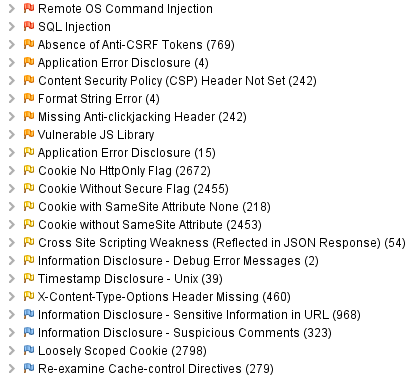
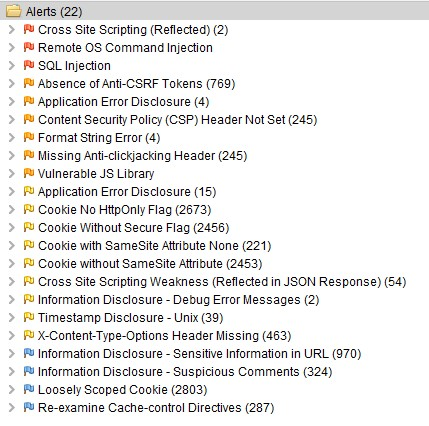
add other security items

Changed region(s): [[0.0, 0.0, 1.0, 0.9897]]

diff --git a/en/others/penetration-test-report.md b/en/others/penetration-test-report.md
@@ -1,6 +1,6 @@
 # ABP Commercial Penetration Test Report
 
-ABP v5.3.2 has been tested with OWASP ZAP tool. The following alerts has been reported by the tool. Many of these items are false-alert and some of them are correct alerts. In the next sections, the reason of false-alerts will be explained. For the correct alerts, there will be fixes. The issue links for the fixes will be shared in the last section.
+ABP Commercial MVC v5.3.2 application template has been tested against security vulnerabilities via [OWASP ZAP v2.11.1](https://www.zaproxy.org/)  tool. The following alerts has been reported by the tool. Many of these items are false-alert and a few of them are effects vulnerability. In the next sections, the reason of false-alerts will be explained. For the correct alerts are fixed or to created internal issues to be fixed later according to the risk level. The issue links for the fixes will be shared in the last section.
 
 
 ## Alerts
@@ -9,11 +9,220 @@ There are high, medium, low and informational alerts.
 
 ![image-20220630183012987](../images/pen-test-alert-list.png)
 
-### Remote OS Command Injection | High
+### Cross Site Scripting (Reflected)  [Risk: High] — Positive (Fixed)
 
-*[GET]* — https://localhost:44378/SettingManagement?AccountRecaptchaSettings.UseCaptchaOnLogin=false&AccountRecaptchaSettings.UseCaptchaOnRegistration=false&AccountSettings.EnableLocalLogin=false&AccountSettings.IsSelfRegistrationEnabled=false&AccountTwoFactorSettings.IsRememberBrowserEnabled=false&AccountTwoFactorSettings.UsersCanChange=false&BoxedLayout=true&EnableLocalLogin=true&IsRememberBrowserEnabled=true&IsSelfRegistrationEnabled=true&MenuPlacement=Left&MenuStatus=AlwaysOpened&PublicLayoutStyle=Style1&Score=0.5&SiteKey=ZAP&SiteSecret=ZAP&Style=Style6&TwoFactorBehaviour=Optional&UseCaptchaOnLogin=true%7Ctimeout+%2FT+5&UseCaptchaOnRegistration=true&UsersCanChange=true&VerifyBaseUrl=https%3A%2F%2Fwww.google.com%2F&Version=3
+* *[GET]* — https://localhost:44378/Abp/Languages/Switch?culture=%3CscrIpt%3Ealert%281%29%3B%3C%2FscRipt%3E&returnUrl=%2F&uiCulture=ar
+* *[GET]* — https://localhost:44378/Abp/Languages/Switch?culture=ar&returnUrl=%2F&uiCulture=%3CscrIpt%3Ealert%281%29%3B%3C%2FscRipt%3E
+
+The above URLs reported to be vulnerable against Cross Site Scripting (Reflected) attack. This vulnerability has been fixed with the following issue in the ABP Framework, Language Management Module: https://github.com/abpframework/abp/issues/13183
+
+
+
+### Remote OS Command Injection [Risk: High] — False Positive
+
+* *[GET]* — https://localhost:44378/SettingManagement?AccountRecaptchaSettings.UseCaptchaOnLogin=false&AccountRecaptchaSettings.UseCaptchaOnRegistration=false&AccountSettings.EnableLocalLogin=false&AccountSettings.IsSelfRegistrationEnabled=false&AccountTwoFactorSettings.IsRememberBrowserEnabled=false&AccountTwoFactorSettings.UsersCanChange=false&BoxedLayout=true&EnableLocalLogin=true&IsRememberBrowserEnabled=true&IsSelfRegistrationEnabled=true&MenuPlacement=Left&MenuStatus=AlwaysOpened&PublicLayoutStyle=Style1&Score=0.5&SiteKey=ZAP&SiteSecret=ZAP&Style=Style6&TwoFactorBehaviour=Optional&UseCaptchaOnLogin=true%7Ctimeout+%2FT+5&UseCaptchaOnRegistration=true&UsersCanChange=true&VerifyBaseUrl=https%3A%2F%2Fwww.google.com%2F&Version=3
 
 **Description:** Attack technique used for unauthorized execution of operating system commands. This attack is possible when an application accepts untrusted input to build operating system commands in an insecure manner involving improper data sanitization, and/or improper calling of external programs.
 
-**Solution:** The URL param is given  `UseCaptchaOnLogin=true%7Ctimeout+%2FT+5`. As the attacker sends `true|timeout /T 15`, it should wait the request thread for 5 seconds. Because it pauses the thread. But this command is not being evaluated in the OS. Because it's being binded to a boolean property in the backend: `public bool UseCaptchaOnLogin { get; set; }` and any invalid value comes from the client will result in `false` value. To check if it's working or not, you can set it a very high number like `timeout /T 999` and you will see the request completes very fast and doesn't evaluate the OS command.
+**Explanation:** 
 
+This is a false-positive alert. The URL param is given  `UseCaptchaOnLogin=true%7Ctimeout+%2FT+5`. As the attacker sends `true|timeout /T 15`, it should wait the request thread for 5 seconds. Because it pauses the thread. But this command is not being evaluated in the OS. Because it's being binded to a boolean property in the backend: `public bool UseCaptchaOnLogin { get; set; }` and any invalid value comes from the client will result in `false` value. To check if it's being evaluated we set it to a very high number like `timeout /T 999` and we see the request completes very fast and doesn't evaluate this pause OS command.
+
+### SQL Injection [Risk: High] — False Positive
+
+* *[POST]* — https://localhost:44378/LanguageManagement/Texts
+
+**Description:** SQL injection may be possible. The page results were successfully manipulated using the boolean conditions [de-DE' AND '1'='1] and [de-DE' AND '1'='2]. The parameter value being modified was NOT stripped from the HTML output for the purposes of the comparison
+Data was returned for the original parameter. The vulnerability was detected by successfully restricting the data originally returned, by manipulating the parameter
+
+**Explanation:**
+
+ABP uses Entity Framework Core. In the specified endpoint it runs the following database query. This is a false-positive alert. When the culture name is sent as `de-DE' AND '1'='1` the backend throws `[ERR] Culture is not supported. (Parameter 'name')` exception. That is why the modified value was not stripped the HTML output. 
+
+
+
+### Absence of Anti-CSRF Tokens [Risk: Medium] — False Positive
+
+* *[GET] — https://localhost:44378/Account/Manage*
+
+**Description**: No Anti-CSRF tokens were found in a HTML submission form.
+A cross-site request forgery is an attack that involves forcing a victim to send an HTTP request to a target destination without their knowledge or intent in order to perform an action as the victim. The underlying cause is application functionality using predictable URL/form actions in a repeatable way. The nature of the attack is that CSRF exploits the trust that a web site has for a user. By contrast, cross-site scripting (XSS) exploits the trust that a user has for a web site. Like XSS, CSRF attacks are not necessarily cross-site, but they can be. Cross-site request forgery is also known as CSRF, XSRF, one-click attack, session riding, confused deputy, and sea surf.
+
+**Explanation:**
+
+This is false-positive alert because ABP Framework provides the Anti-CSRF token via cookie as seen on the following screenshot.  
+
+![Absence of Anti-CSRF Token](../images/pen-test-alert-remote-os-command-injection.png)
+
+
+
+### Application Error Disclosure [Risk: Medium] — False Positive
+
+- *[GET] — https://localhost:44378/Abp/ApplicationConfigurationScript*
+- *[GET] —https://localhost:44378/api/language-management/language-texts?filter=&resourceName=&baseCultureName=en&targetCultureName=de-DE&getOnlyEmptyValues=false&sorting=name%20asc&skipCount=0&maxResultCount=10*
+- *[GET] —https://localhost:44378/AuditLogs*
+- *[GET] —https://localhost:44378/libs/uppy/uppy.min.js*
+
+**Description**: This page contains an error/warning message that may disclose sensitive information like the location of the file that produced the unhandled exception. This information can be used to launch further attacks against the web application. The alert could be a false positive if the error message is found inside a documentation page.
+
+**Explanation:**
+
+There are 4 URLs that are reported as exposing error messages. This is a false-positive alert. As seen on the following screenshot, all these endpoints returns `Internal Error` text for the localization purposes and there is no exception thrown.
+
+![Absence of Anti-CSRF Token](../images/pen-test-error-disclosure.png)
+
+
+
+### Content Security Policy (CSP) Header Not Set [Risk: Medium] — Positive (Fixed)
+
+- *[GET] — https://localhost:44378*
+
+**Description:** Content Security Policy (CSP) is an added layer of security that helps to detect and mitigate certain types of attacks, including Cross Site Scripting (XSS) and data injection attacks. These attacks are used for everything from data theft to site defacement or distribution of malware. CSP provides a set of standard HTTP headers that allow website owners to declare approved sources of content that browsers should be allowed to load on that page — covered types are JavaScript, CSS, HTML frames, fonts, images and embeddable objects such as Java applets, ActiveX, audio and video files.
+
+**Solution:** Ensure that your web server, application server, load balancer, etc. is configured to set the `Content-Security-Policy` header, to achieve optimal browser support: "Content-Security-Policy" for Chrome 25+, Firefox 23+ and Safari 7+, "X-Content-Security-Policy" for Firefox 4.0+ and Internet Explorer 10+, and "X-WebKit-CSP" for Chrome 14+ and Safari 6+.
+
+In ASP.NET Core, you can create middleware to set the header to http  response, here is a minimal middleware to do this. You need to add this  code to the `Configure()` method in `Startup.cs` before the `UseEndpoints` method.
+
+```
+app.Use(async (context, next) =>
+{
+    context.Response.Headers.Add("Content-Security-Policy", "default-src 'self';");
+    await next();
+});
+```
+
+This vulnerability is being fixed in ABP v7.0. You can check track the issue from https://github.com/abpframework/abp/issues/14173
+
+
+
+### Format String Error [Risk: Medium] — Positive (Fixed)
+
+- *[GET] — https://localhost:44378/Abp/Languages/Switch?culture=ar&returnUrl=%2F&uiCulture=ZAP%25n%25s%25n%25s%25n%25s%25n%25s%25n%25s%25n%25s%25n%25s%25n%25s%25n%25s%25n%25s%25n%25s%25n%25s%25n%25s%25n%25s%25n%25s%25n%25s%25n%25s%25n%25s%25n%25s%25n%25s%0A*  
+- *[GET] — https://localhost:44378/Abp/Languages/Switch?culture=ZAP%25n%25s%25n%25s%25n%25s%25n%25s%25n%25s%25n%25s%25n%25s%25n%25s%25n%25s%25n%25s%25n%25s%25n%25s%25n%25s%25n%25s%25n%25s%25n%25s%25n%25s%25n%25s%25n%25s%25n%25s%0A&returnUrl=%2F&uiCulture=ar*  
+- *[POST] — https://localhost:44378/Account/Login*  
+- *[POST] — https://localhost:44378/Account/Register*
+
+**Description:** A Format String error occurs when the submitted data of an input string is evaluated as a command by the application.
+
+**Solution:** Rewrite the background program using proper deletion of bad character strings.  This will require a recompile of the background executable. The first affected URL is being fixed by this issue https://github.com/abpframework/abp/issues/14174. The second URL is already fixed with  https://github.com/abpframework/abp/issues/13183. The last 2 URLs are false-positive because there is no bad character strings in the response. For example the third request's response is the following and as seen there is no invalid chars in the response.
+
+```
+Volo.Abp.Validation.AbpValidationException: ModelState is not valid! See ValidationErrors for details.
+   at Volo.Abp.AspNetCore.Mvc.Validation.ModelStateValidator.Validate(ModelStateDictionary modelState)
+   at Volo.Abp.Account.Web.Pages.Account.IdentityServerSupportedLoginModel.OnPostAsync(String action)
+   at Microsoft.AspNetCore.Mvc.RazorPages.Infrastructure.ExecutorFactory.GenericTaskHandlerMethod.Convert[T](Object taskAsObject)
+   at Microsoft.AspNetCore.Mvc.RazorPages.Infrastructure.ExecutorFactory.GenericTaskHandlerMethod.Execute(Object receiver, Object[] arguments)
+   at Microsoft.AspNetCore.Mvc.RazorPages.Infrastructure.PageActionInvoker.InvokeHandlerMethodAsync()
+   at Microsoft.AspNetCore.Mvc.RazorPages.Infrastructure.PageActionInvoker.InvokeNextPageFilterAsync()
+   at Microsoft.AspNetCore.Mvc.RazorPages.Infrastructure.PageActionInvoker.Rethrow(PageHandlerExecutedContext context)
+   at Microsoft.AspNetCore.Mvc.RazorPages.Infrastructure.PageActionInvoker.Next(State& next, Scope& scope, Object& state, Boolean& isCompleted)
+   at Microsoft.AspNetCore.Mvc.RazorPages.Infrastructure.PageActionInvoker.InvokeInnerFilterAsync()
+   at Microsoft.AspNetCore.Mvc.Infrastructure.ResourceInvoker.<InvokeNextExceptionFilterAsync>g__Awaited|26_0(ResourceInvoker invoker, Task lastTask, State next, Scope scope, Object state, Boolean isCompleted)
+   at Microsoft.AspNetCore.Mvc.Infrastructure.ResourceInvoker.Rethrow(ExceptionContextSealed context)
+   at Microsoft.AspNetCore.Mvc.Infrastructure.ResourceInvoker.Next(State& next, Scope& scope, Object& state, Boolean& isCompleted)
+   at Microsoft.AspNetCore.Mvc.Infrastructure.ResourceInvoker.InvokeNextResourceFilter()
+--- End of stack trace from previous location ---
+   at Microsoft.AspNetCore.Mvc.Infrastructure.ResourceInvoker.Rethrow(ResourceExecutedContextSealed context)
+   at Microsoft.AspNetCore.Mvc.Infrastructure.ResourceInvoker.Next(State& next, Scope& scope, Object& state, Boolean& isCompleted)
+   at Microsoft.AspNetCore.Mvc.Infrastructure.ResourceInvoker.InvokeFilterPipelineAsync()
+--- End of stack trace from previous location ---
+   at Microsoft.AspNetCore.Mvc.Infrastructure.ResourceInvoker.<InvokeAsync>g__Logged|17_1(ResourceInvoker invoker)
+   at Microsoft.AspNetCore.Mvc.Infrastructure.ResourceInvoker.<InvokeAsync>g__Logged|17_1(ResourceInvoker invoker)
+   at Microsoft.AspNetCore.Routing.EndpointMiddleware.<Invoke>g__AwaitRequestTask|6_0(Endpoint endpoint, Task requestTask, ILogger logger)
+   at Volo.Abp.AspNetCore.Serilog.AbpSerilogMiddleware.InvokeAsync(HttpContext context, RequestDelegate next)
+   at Microsoft.AspNetCore.Builder.UseMiddlewareExtensions.<>c__DisplayClass6_1.<<UseMiddlewareInterface>b__1>d.MoveNext()
+--- End of stack trace from previous location ---
+   at Volo.Abp.AspNetCore.Auditing.AbpAuditingMiddleware.InvokeAsync(HttpContext context, RequestDelegate next)
+   at Volo.Abp.AspNetCore.Auditing.AbpAuditingMiddleware.InvokeAsync(HttpContext context, RequestDelegate next)
+   at Microsoft.AspNetCore.Builder.UseMiddlewareExtensions.<>c__DisplayClass6_1.<<UseMiddlewareInterface>b__1>d.MoveNext()
+--- End of stack trace from previous location ---
+   at Swashbuckle.AspNetCore.SwaggerUI.SwaggerUIMiddleware.Invoke(HttpContext httpContext)
+   at Swashbuckle.AspNetCore.Swagger.SwaggerMiddleware.Invoke(HttpContext httpContext, ISwaggerProvider swaggerProvider)
+   at Microsoft.AspNetCore.Authorization.AuthorizationMiddleware.Invoke(HttpContext context)
+   at IdentityServer4.Hosting.IdentityServerMiddleware.Invoke(HttpContext context, IEndpointRouter router, IUserSession session, IEventService events, IBackChannelLogoutService backChannelLogoutService)
+   at IdentityServer4.Hosting.MutualTlsEndpointMiddleware.Invoke(HttpContext context, IAuthenticationSchemeProvider schemes)
+   at Microsoft.AspNetCore.Authentication.AuthenticationMiddleware.Invoke(HttpContext context)
+   at IdentityServer4.Hosting.BaseUrlMiddleware.Invoke(HttpContext context)
+   at Volo.Abp.AspNetCore.Uow.AbpUnitOfWorkMiddleware.InvokeAsync(HttpContext context, RequestDelegate next)
+   at Microsoft.AspNetCore.Builder.UseMiddlewareExtensions.<>c__DisplayClass6_1.<<UseMiddlewareInterface>b__1>d.MoveNext()
+--- End of stack trace from previous location ---
+   at Volo.Abp.AspNetCore.ExceptionHandling.AbpExceptionHandlingMiddleware.InvokeAsync(HttpContext context, RequestDelegate next)
+   at Volo.Abp.AspNetCore.ExceptionHandling.AbpExceptionHandlingMiddleware.InvokeAsync(HttpContext context, RequestDelegate next)
+   at Microsoft.AspNetCore.Builder.UseMiddlewareExtensions.<>c__DisplayClass6_1.<<UseMiddlewareInterface>b__1>d.MoveNext()
+--- End of stack trace from previous location ---
+   at Volo.Abp.AspNetCore.MultiTenancy.MultiTenancyMiddleware.InvokeAsync(HttpContext context, RequestDelegate next)
+   at Microsoft.AspNetCore.Builder.UseMiddlewareExtensions.<>c__DisplayClass6_1.<<UseMiddlewareInterface>b__1>d.MoveNext()
+--- End of stack trace from previous location ---
+   at Microsoft.AspNetCore.Builder.ApplicationBuilderAbpJwtTokenMiddlewareExtension.<>c__DisplayClass0_0.<<UseJwtTokenMiddleware>b__0>d.MoveNext()
+--- End of stack trace from previous location ---
+   at Microsoft.AspNetCore.Authentication.AuthenticationMiddleware.Invoke(HttpContext context)
+   at Volo.Abp.AspNetCore.Tracing.AbpCorrelationIdMiddleware.InvokeAsync(HttpContext context, RequestDelegate next)
+   at Microsoft.AspNetCore.Builder.UseMiddlewareExtensions.<>c__DisplayClass6_1.<<UseMiddlewareInterface>b__1>d.MoveNext()
+--- End of stack trace from previous location ---
+   at Microsoft.AspNetCore.Localization.RequestLocalizationMiddleware.Invoke(HttpContext context)
+   at Microsoft.AspNetCore.RequestLocalization.AbpRequestLocalizationMiddleware.InvokeAsync(HttpContext context, RequestDelegate next)
+   at Microsoft.AspNetCore.Builder.UseMiddlewareExtensions.<>c__DisplayClass6_1.<<UseMiddlewareInterface>b__1>d.MoveNext()
+--- End of stack trace from previous location ---
+   at Microsoft.AspNetCore.Diagnostics.DeveloperExceptionPageMiddleware.Invoke(HttpContext context)
+
+HEADERS
+=======
+
+Host: localhost:44378
+User-Agent: Mozilla/5.0 (Windows NT 10.0; Win64; x64; rv:92.0) Gecko/20100101 Firefox/92.0
+Cache-Control: no-cache
+Content-Type: application/x-www-form-urlencoded
+Cookie: .AspNetCore.Culture=c%3Des%7Cuic%3Des; XSRF-TOKEN=CfDJ8JCCBt_8KiVKkbkXtzq6V1BEYfhL6Rn88RfFmrkfC8EzpKhj8ZWhGP8HT8Su_7q2wcmhITLg9rrh-Pj-Tu2c88c--wQg5UvXiQBVc_LqlQiqzMUWyxSrrxDIq22_1kmRA62cvIOrUkGLe4ezmZIYCRU; .AspNetCore.Antiforgery.x3gzYhuqPJM=CfDJ8JCCBt_8KiVKkbkXtzq6V1Ar3NwJpY9vG9eyrUYeAySYBUHsTHCmdGylFpjWOKf6CGVEnPNtJP3FDmgWIXe8le2DgOYxcAIkBkM5W1bybUkamp4yVbDYcimwEswXU1tsMSv3el885ZapGup7WneIcZo
+Pragma: no-cache
+Referer: https://localhost:44378/Account/Login
+Content-Length: 639
+X-Correlation-Id: 2c103514abd44a17b1ec792b6a5c1dc3
+```
+
+
+
+### Missing Anti-clickjacking Header [Risk: Medium] — False Positive
+
+- *[GET] — https://localhost:44378* 
+- *[GET] — https://localhost:44378/Abp/MultiTenancy/TenantSwitchModal*
+
+**Description:** There are 248 URLs reported to be vulnerable against missing Anti-clickjacking header. The above 2 URLs are written to be examples. In this topic, the tools reports that the response does not include either `Content-Security-Policy` with 'frame-ancestors' directive or `X-Frame-Options` to protect against ClickJacking attacks.
+
+**Solution:** This vulnerability is same as "Content Security Policy (CSP) Header Not Set" and with the following issue, this is also being fixed.
+https://github.com/abpframework/abp/issues/14173. On the other hand `X-Frame-Options`  header is being added in the following middleware in ABP Framework core module: https://github.com/abpframework/abp/blob/dev/framework/src/Volo.Abp.AspNetCore/Volo/Abp/AspNetCore/Security/AbpSecurityHeadersMiddleware.cs#L20
+
+Besides, there is a tracking issue for this vulnerability: https://github.com/abpframework/abp/issues/14175
+
+### Vulnerable JS Library [Risk: Medium] — Positive (Fixed)
+
+* *[GET] — https://localhost:44378/libs/jquery/jquery.js*
+
+**Description:** The identified library jQuery, version 3.3.1 is vulnerable.
+
+**Solution:** The ABP templates uses jQuery v3.6.0 and it is configured at https://github.com/abpframework/abp/blob/dev/npm/packs/jquery/package.json#L14. Even it's configured to use the not vulnerable version, the templates uses the v3.3.1. This issue is being tracked at https://github.com/abpframework/abp/issues/14176.
+
+### Application Error Disclosure [Risk: Low] — Positive (Fixed)
+
+- *[POST] — https://localhost:44378/Account/ImpersonateTenant*
+- *[POST] — https://localhost:44378/Account/ImpersonateUser*  
+- *[POST] — https://localhost:44378/Account/Manage?returnUrl=https://localhost:44378/AuditLogs*
+- *[POST] — https://localhost:44378/Account/Manage?returnUrl=https://localhost:44378/Identity/ClaimTypes*
+- *[POST] — https://localhost:44378/Account/Manage?returnUrl=https://localhost:44378/Identity/SecurityLogs*  
+- *[POST] — https://localhost:44378/Account/Manage?returnUrl=https://localhost:44378/IdentityServer/ApiResources* 
+- *[POST] — https://localhost:44378/Account/Manage?returnUrl=https://localhost:44378/IdentityServer/ApiScopes*
+- *[POST] — https://localhost:44378/Account/Manage?returnUrl=https://localhost:44378/IdentityServer/Clients*
+- *[POST] — https://localhost:44378/Account/Manage?returnUrl=https://localhost:44378/IdentityServer/IdentityResources*
+- *[POST] — https://localhost:44378/Account/Manage?returnUrl=https://localhost:44378/LanguageManagement*
+- *[POST] — https://localhost:44378/Account/Manage?returnUrl=https://localhost:44378/LanguageManagement/Texts*
+- *[POST] — https://localhost:44378/Account/Manage?returnUrl=https://localhost:44378/SettingManagement*
+- *[POST] — https://localhost:44378/Account/Manage?returnUrl=https://localhost:44378/TextTemplates* 
+- *[POST] — https://localhost:44378/SettingManagement?BoxedLayout=true&MenuPlacement=Left&MenuStatus=AlwaysOpened&PublicLayoutStyle=Style1&Style=Style6*
+- *[POST] — https://localhost:44378/SettingManagement?IdentitySettings.Lockout.AllowedForNewUsers=true&IdentitySettings.Lockout.LockoutDuration=300&IdentitySettings.Lockout.MaxFailedAccessAttempts=5&IdentitySettings.Password.RequireDigit=true&IdentitySettings.Password.RequireLowercase=true&IdentitySettings.Password.RequireNonAlphanumeric=true&IdentitySettings.Password.RequireUppercase=true&IdentitySettings.Password.RequiredLength=6&IdentitySettings.Password.RequiredUniqueChars=1&IdentitySettings.SignIn.EnablePhoneNumberConfirmation=true&IdentitySettings.SignIn.RequireConfirmedEmail=true&IdentitySettings.SignIn.RequireConfirmedPhoneNumber=true&IdentitySettings.User.IsEmailUpdateEnabled=true&IdentitySettings.User.IsUserNameUpdateEnabled=true*
+
+**Description:** The reported pages contain an error/warning message that may disclose sensitive information like the location of the file that produced the unhandled exception. This information can be used to launch further attacks against the web application. The alert could be a false positive if the error message is found inside a documentation page.
+
+**Solution:** This vulnerability has been fixed with the following issue https://github.com/abpframework/abp/issues/14177.
+
+### Cookie No HttpOnly  [Risk: Low] — Positive (Fixed)
+
+TODO...
